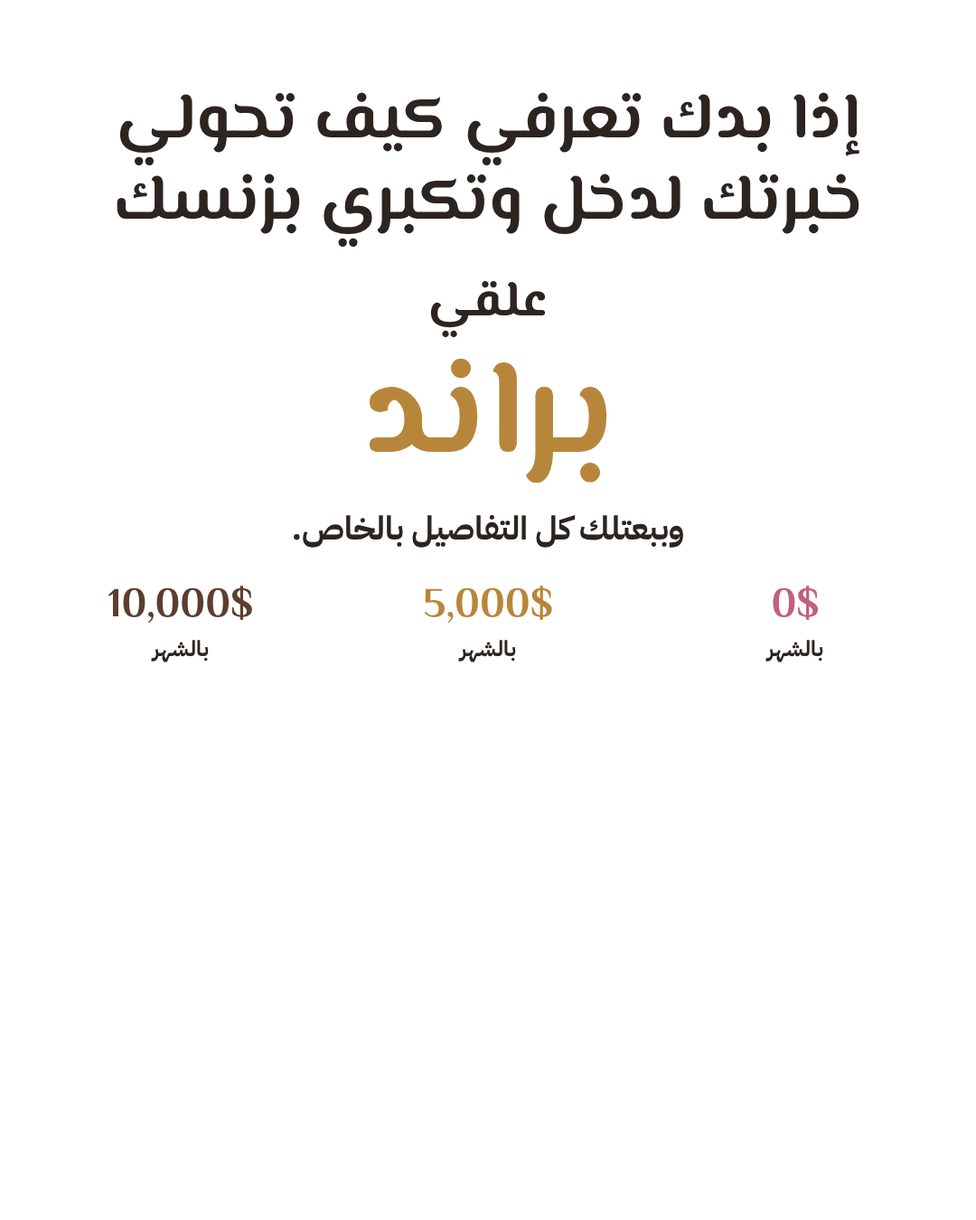
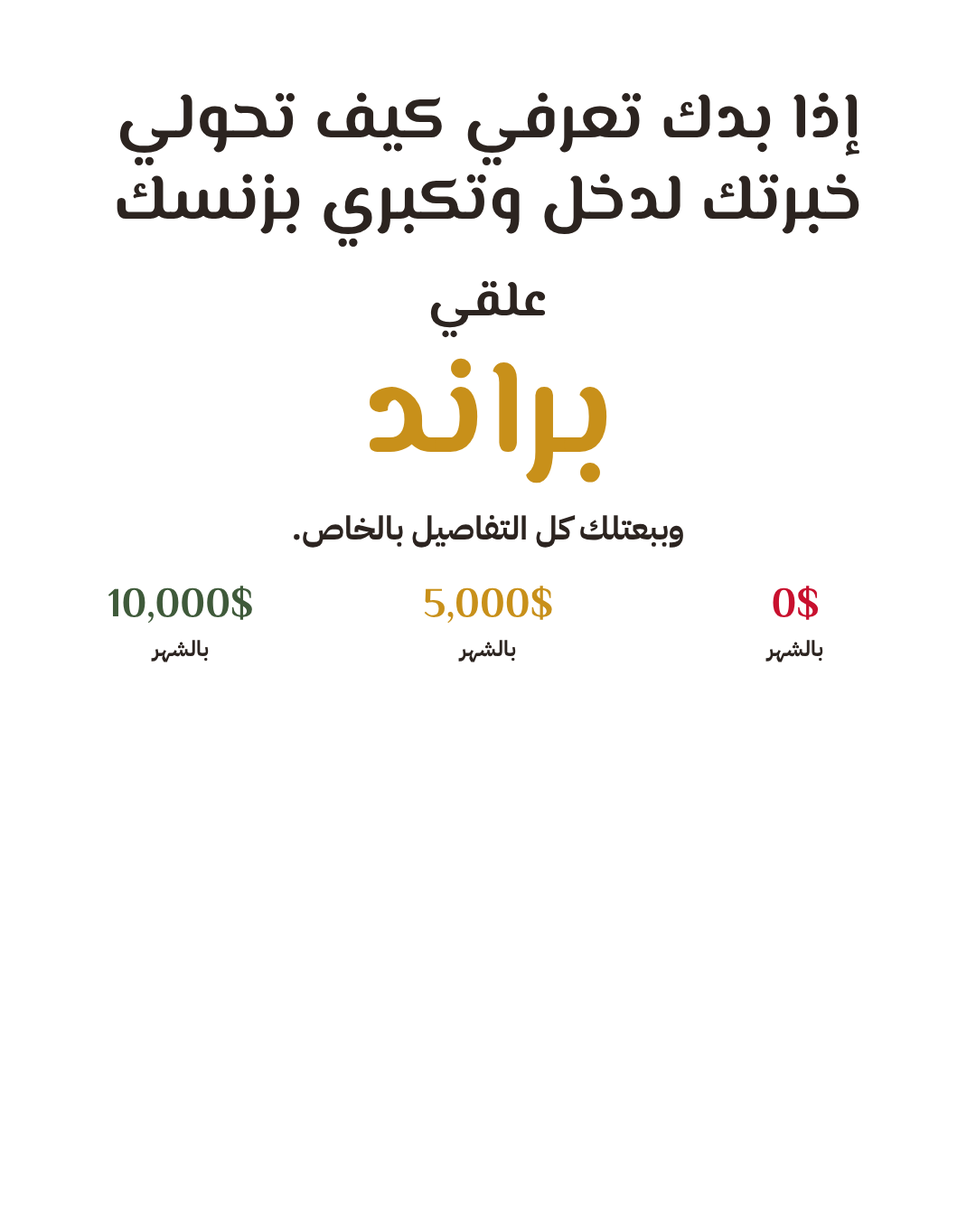
Carousel 02: place final character images, match tier colors to outfits
Claude-Session: https://claude.ai/code/session_01Q3F4hydPDiJyjfKYRyCC3U

diff --git a/carousels/02-0-5k-10k/empty/carousel.html b/carousels/02-0-5k-10k/empty/carousel.html
@@ -18,7 +18,7 @@ h1.big{font-size:100px}
 .cover .ppl{height:620px}
 .foot{position:absolute;bottom:0;left:0;right:0;background:#fff;text-align:center;font-weight:700;font-size:36px;padding:22px 0 30px}
 .cover .ppl{margin-bottom:96px}
-.cta1{font-size:72px}.cta2{font-family:M;font-size:56px;margin-top:22px}.kw{font-family:M;font-size:150px;color:#B8863B;line-height:1.15}
+.cta1{font-size:72px}.cta2{font-family:M;font-size:56px;margin-top:22px}.kw{font-family:M;font-size:150px;color:#C8901A;line-height:1.15}
 .cta3{font-weight:700;font-size:36px;margin-top:6px}.sm{margin-top:34px}.sm .amt{font-size:46px}.sm .pm{font-size:24px}
 .cta .ppl{height:470px}
-.p img,.p b{display:none!important}</style></head><body><section class="slide cover"><h1 class="big">الفرق كله هون…</h1><div class="cols heads"><div class="col"><div class="amt" style="color:#C0607A">0$</div><div class="pm">بالشهر</div><i style=background:#C0607A></i></div><div class="col"><div class="amt" style="color:#B8863B">5,000$</div><div class="pm">بالشهر</div><i style=background:#B8863B></i></div><div class="col"><div class="amt" style="color:#5C3D2E">10,000$</div><div class="pm">بالشهر</div><i style=background:#5C3D2E></i></div></div><div class="cols arrows"><svg viewBox="0 0 120 110"><path d="M110 18 C70 2 25 15 22 85" fill="none" stroke="#C0607A" stroke-width="7" stroke-linecap="round"/><path d="M6 66 L22 92 L40 68" fill="none" stroke="#C0607A" stroke-width="7" stroke-linecap="round" stroke-linejoin="round"/></svg><svg viewBox="0 0 120 110"><path d="M110 18 C70 2 25 15 22 85" fill="none" stroke="#B8863B" stroke-width="7" stroke-linecap="round"/><path d="M6 66 L22 92 L40 68" fill="none" stroke="#B8863B" stroke-width="7" stroke-linecap="round" stroke-linejoin="round"/></svg><svg viewBox="0 0 120 110"><path d="M110 18 C70 2 25 15 22 85" fill="none" stroke="#5C3D2E" stroke-width="7" stroke-linecap="round"/><path d="M6 66 L22 92 L40 68" fill="none" stroke="#5C3D2E" stroke-width="7" stroke-linecap="round" stroke-linejoin="round"/></svg></div><div class="cols ppl"><div class="p"><b style="background:#F4DDE3"></b><img src="photos/tier0.png"></div><div class="p"><b style="background:#F2E4CD"></b><img src="photos/tier5k.png"></div><div class="p"><b style="background:#E8DCD4"></b><img class="big10" src="photos/tier10k.png"></div></div><p class="foot">اسحبي لتشوفي كيف بتفكر كل وحدة ←</p></section><section class="slide row"><h1>العرض</h1><div class="cols heads"><div class="col"><div class="amt" style="color:#C0607A">0$</div><div class="pm">بالشهر</div><i style=background:#C0607A></i></div><div class="col"><div class="amt" style="color:#B8863B">5,000$</div><div class="pm">بالشهر</div><i style=background:#B8863B></i></div><div class="col"><div class="amt" style="color:#5C3D2E">10,000$</div><div class="pm">بالشهر</div><i style=background:#5C3D2E></i></div></div><div class="cols q"><p>بقدم كل شي ببلاش، وبستحي أحكي عن السعر.</p><p>عندي عرض واحد واضح لمشكلة وحدة.</p><p>عندي برنامج بنتيجة واضحة وسعر ما بعتذر عنه.</p></div><div class="cols ppl"><div class="p"><b style="background:#F4DDE3"></b><img src="photos/tier0.png"></div><div class="p"><b style="background:#F2E4CD"></b><img src="photos/tier5k.png"></div><div class="p"><b style="background:#E8DCD4"></b><img class="big10" src="photos/tier10k.png"></div></div></section><section class="slide row"><h1>المحتوى</h1><div class="cols heads"><div class="col"><div class="amt" style="color:#C0607A">0$</div><div class="pm">بالشهر</div><i style=background:#C0607A></i></div><div class="col"><div class="amt" style="color:#B8863B">5,000$</div><div class="pm">بالشهر</div><i style=background:#B8863B></i></div><div class="col"><div class="amt" style="color:#5C3D2E">10,000$</div><div class="pm">بالشهر</div><i style=background:#5C3D2E></i></div></div><div class="cols q"><p>بنشر شو ما خطر عبالي، بلا خطة.</p><p>بنشر نصايح بمجالي كل يوم.</p><p>كل منشور إلو هدف: متابعة، ثقة، أو بيع.</p></div><div class="cols ppl"><div class="p"><b style="background:#F4DDE3"></b><img src="photos/tier0.png"></div><div class="p"><b style="background:#F2E4CD"></b><img src="photos/tier5k.png"></div><div class="p"><b style="background:#E8DCD4"></b><img class="big10" src="photos/tier10k.png"></div></div></section><section class="slide row"><h1>الستوري</h1><div class="cols heads"><div class="col"><div class="amt" style="color:#C0607A">0$</div><div class="pm">بالشهر</div><i style=background:#C0607A></i></div><div class="col"><div class="amt" style="color:#B8863B">5,000$</div><div class="pm">بالشهر</div><i style=background:#B8863B></i></div><div class="col"><div class="amt" style="color:#5C3D2E">10,000$</div><div class="pm">بالشهر</div><i style=background:#5C3D2E></i></div></div><div class="cols q"><p>بنزل يومياتي وبس.</p><p>بشارك نتايج عميلاتي وبجاوب على الأسئلة.</p><p>نتايج، أسئلة واجوبة، ودعوة للشراء مرتين بالأسبوع على الأقل.</p></div><div class="cols ppl"><div class="p"><b style="background:#F4DDE3"></b><img src="photos/tier0.png"></div><div class="p"><b style="background:#F2E4CD"></b><img src="photos/tier5k.png"></div><div class="p"><b style="background:#E8DCD4"></b><img class="big10" src="photos/tier10k.png"></div></div></section><section class="slide row"><h1>الرسائل بالخاص</h1><div class="cols heads"><div class="col"><div class="amt" style="color:#C0607A">0$</div><div class="pm">بالشهر</div><i style=background:#C0607A></i></div><div class="col"><div class="amt" style="color:#B8863B">5,000$</div><div class="pm">بالشهر</div><i style=background:#B8863B></i></div><div class="col"><div class="amt" style="color:#5C3D2E">10,000$</div><div class="pm">بالشهر</div><i style=background:#5C3D2E></i></div></div><div class="cols q"><p>بستنى الناس يسالوني عن السعر.</p><p>برد على كل رسالة بسرعة.</p><p>كلمة بالتعليقات بتفتح محادثة، وكل محادثة إلها خطوات لحد البيع.</p></div><div class="cols ppl"><div class="p"><b style="background:#F4DDE3"></b><img src="photos/tier0.png"></div><div class="p"><b style="background:#F2E4CD"></b><img src="photos/tier5k.png"></div><div class="p"><b style="background:#E8DCD4"></b><img class="big10" src="photos/tier10k.png"></div></div></section><section class="slide cta"><h1 class="cta1">إذا بدك تعرفي كيف تحولي<br>خبرتك لدخل وتكبري بزنسك</h1><p class="cta2">علقي</p><p class="kw">براند</p><p class="cta3">وببعتلك كل التفاصيل بالخاص.</p><div class="cols heads sm"><div class="col"><div class="amt" style="color:#C0607A">0$</div><div class="pm">بالشهر</div></div><div class="col"><div class="amt" style="color:#B8863B">5,000$</div><div class="pm">بالشهر</div></div><div class="col"><div class="amt" style="color:#5C3D2E">10,000$</div><div class="pm">بالشهر</div></div></div><div class="cols ppl"><div class="p"><b style="background:#F4DDE3"></b><img src="photos/tier0.png"></div><div class="p"><b style="background:#F2E4CD"></b><img src="photos/tier5k.png"></div><div class="p"><b style="background:#E8DCD4"></b><img class="big10" src="photos/tier10k.png"></div></div></section></body></html>
+.p img,.p b{display:none!important}</style></head><body><section class="slide cover"><h1 class="big">الفرق كله هون…</h1><div class="cols heads"><div class="col"><div class="amt" style="color:#C8102E">0$</div><div class="pm">بالشهر</div><i style=background:#C8102E></i></div><div class="col"><div class="amt" style="color:#C8901A">5,000$</div><div class="pm">بالشهر</div><i style=background:#C8901A></i></div><div class="col"><div class="amt" style="color:#3F5A3A">10,000$</div><div class="pm">بالشهر</div><i style=background:#3F5A3A></i></div></div><div class="cols arrows"><svg viewBox="0 0 120 110"><path d="M110 18 C70 2 25 15 22 85" fill="none" stroke="#C8102E" stroke-width="7" stroke-linecap="round"/><path d="M6 66 L22 92 L40 68" fill="none" stroke="#C8102E" stroke-width="7" stroke-linecap="round" stroke-linejoin="round"/></svg><svg viewBox="0 0 120 110"><path d="M110 18 C70 2 25 15 22 85" fill="none" stroke="#C8901A" stroke-width="7" stroke-linecap="round"/><path d="M6 66 L22 92 L40 68" fill="none" stroke="#C8901A" stroke-width="7" stroke-linecap="round" stroke-linejoin="round"/></svg><svg viewBox="0 0 120 110"><path d="M110 18 C70 2 25 15 22 85" fill="none" stroke="#3F5A3A" stroke-width="7" stroke-linecap="round"/><path d="M6 66 L22 92 L40 68" fill="none" stroke="#3F5A3A" stroke-width="7" stroke-linecap="round" stroke-linejoin="round"/></svg></div><div class="cols ppl"><div class="p"><b style="background:#F4DDE3"></b><img src="photos/tier0.png"></div><div class="p"><b style="background:#F2E4CD"></b><img src="photos/tier5k.png"></div><div class="p"><b style="background:#E8DCD4"></b><img class="big10" src="photos/tier10k.png"></div></div><p class="foot">اسحبي لتشوفي كيف بتفكر كل وحدة ←</p></section><section class="slide row"><h1>العرض</h1><div class="cols heads"><div class="col"><div class="amt" style="color:#C8102E">0$</div><div class="pm">بالشهر</div><i style=background:#C8102E></i></div><div class="col"><div class="amt" style="color:#C8901A">5,000$</div><div class="pm">بالشهر</div><i style=background:#C8901A></i></div><div class="col"><div class="amt" style="color:#3F5A3A">10,000$</div><div class="pm">بالشهر</div><i style=background:#3F5A3A></i></div></div><div class="cols q"><p>بقدم كل شي ببلاش، وبستحي أحكي عن السعر.</p><p>عندي عرض واحد واضح لمشكلة وحدة.</p><p>عندي برنامج بنتيجة واضحة وسعر ما بعتذر عنه.</p></div><div class="cols ppl"><div class="p"><b style="background:#F4DDE3"></b><img src="photos/tier0.png"></div><div class="p"><b style="background:#F2E4CD"></b><img src="photos/tier5k.png"></div><div class="p"><b style="background:#E8DCD4"></b><img class="big10" src="photos/tier10k.png"></div></div></section><section class="slide row"><h1>المحتوى</h1><div class="cols heads"><div class="col"><div class="amt" style="color:#C8102E">0$</div><div class="pm">بالشهر</div><i style=background:#C8102E></i></div><div class="col"><div class="amt" style="color:#C8901A">5,000$</div><div class="pm">بالشهر</div><i style=background:#C8901A></i></div><div class="col"><div class="amt" style="color:#3F5A3A">10,000$</div><div class="pm">بالشهر</div><i style=background:#3F5A3A></i></div></div><div class="cols q"><p>بنشر شو ما خطر عبالي، بلا خطة.</p><p>بنشر نصايح بمجالي كل يوم.</p><p>كل منشور إلو هدف: متابعة، ثقة، أو بيع.</p></div><div class="cols ppl"><div class="p"><b style="background:#F4DDE3"></b><img src="photos/tier0.png"></div><div class="p"><b style="background:#F2E4CD"></b><img src="photos/tier5k.png"></div><div class="p"><b style="background:#E8DCD4"></b><img class="big10" src="photos/tier10k.png"></div></div></section><section class="slide row"><h1>الستوري</h1><div class="cols heads"><div class="col"><div class="amt" style="color:#C8102E">0$</div><div class="pm">بالشهر</div><i style=background:#C8102E></i></div><div class="col"><div class="amt" style="color:#C8901A">5,000$</div><div class="pm">بالشهر</div><i style=background:#C8901A></i></div><div class="col"><div class="amt" style="color:#3F5A3A">10,000$</div><div class="pm">بالشهر</div><i style=background:#3F5A3A></i></div></div><div class="cols q"><p>بنزل يومياتي وبس.</p><p>بشارك نتايج عميلاتي وبجاوب على الأسئلة.</p><p>نتايج، أسئلة واجوبة، ودعوة للشراء مرتين بالأسبوع على الأقل.</p></div><div class="cols ppl"><div class="p"><b style="background:#F4DDE3"></b><img src="photos/tier0.png"></div><div class="p"><b style="background:#F2E4CD"></b><img src="photos/tier5k.png"></div><div class="p"><b style="background:#E8DCD4"></b><img class="big10" src="photos/tier10k.png"></div></div></section><section class="slide row"><h1>الرسائل بالخاص</h1><div class="cols heads"><div class="col"><div class="amt" style="color:#C8102E">0$</div><div class="pm">بالشهر</div><i style=background:#C8102E></i></div><div class="col"><div class="amt" style="color:#C8901A">5,000$</div><div class="pm">بالشهر</div><i style=background:#C8901A></i></div><div class="col"><div class="amt" style="color:#3F5A3A">10,000$</div><div class="pm">بالشهر</div><i style=background:#3F5A3A></i></div></div><div class="cols q"><p>بستنى الناس يسالوني عن السعر.</p><p>برد على كل رسالة بسرعة.</p><p>كلمة بالتعليقات بتفتح محادثة، وكل محادثة إلها خطوات لحد البيع.</p></div><div class="cols ppl"><div class="p"><b style="background:#F4DDE3"></b><img src="photos/tier0.png"></div><div class="p"><b style="background:#F2E4CD"></b><img src="photos/tier5k.png"></div><div class="p"><b style="background:#E8DCD4"></b><img class="big10" src="photos/tier10k.png"></div></div></section><section class="slide cta"><h1 class="cta1">إذا بدك تعرفي كيف تحولي<br>خبرتك لدخل وتكبري بزنسك</h1><p class="cta2">علقي</p><p class="kw">براند</p><p class="cta3">وببعتلك كل التفاصيل بالخاص.</p><div class="cols heads sm"><div class="col"><div class="amt" style="color:#C8102E">0$</div><div class="pm">بالشهر</div></div><div class="col"><div class="amt" style="color:#C8901A">5,000$</div><div class="pm">بالشهر</div></div><div class="col"><div class="amt" style="color:#3F5A3A">10,000$</div><div class="pm">بالشهر</div></div></div><div class="cols ppl"><div class="p"><b style="background:#F4DDE3"></b><img src="photos/tier0.png"></div><div class="p"><b style="background:#F2E4CD"></b><img src="photos/tier5k.png"></div><div class="p"><b style="background:#E8DCD4"></b><img class="big10" src="photos/tier10k.png"></div></div></section></body></html>

diff --git a/carousels/02-0-5k-10k/carousel.html b/carousels/02-0-5k-10k/carousel.html
@@ -18,7 +18,7 @@ h1.big{font-size:100px}
 .cover .ppl{height:620px}
 .foot{position:absolute;bottom:0;left:0;right:0;background:#fff;text-align:center;font-weight:700;font-size:36px;padding:22px 0 30px}
 .cover .ppl{margin-bottom:96px}
-.cta1{font-size:72px}.cta2{font-family:M;font-size:56px;margin-top:22px}.kw{font-family:M;font-size:150px;color:#B8863B;line-height:1.15}
+.cta1{font-size:72px}.cta2{font-family:M;font-size:56px;margin-top:22px}.kw{font-family:M;font-size:150px;color:#C8901A;line-height:1.15}
 .cta3{font-weight:700;font-size:36px;margin-top:6px}.sm{margin-top:34px}.sm .amt{font-size:46px}.sm .pm{font-size:24px}
 .cta .ppl{height:470px}
-</style></head><body><section class="slide cover"><h1 class="big">الفرق كله هون…</h1><div class="cols heads"><div class="col"><div class="amt" style="color:#C0607A">0$</div><div class="pm">بالشهر</div><i style=background:#C0607A></i></div><div class="col"><div class="amt" style="color:#B8863B">5,000$</div><div class="pm">بالشهر</div><i style=background:#B8863B></i></div><div class="col"><div class="amt" style="color:#5C3D2E">10,000$</div><div class="pm">بالشهر</div><i style=background:#5C3D2E></i></div></div><div class="cols arrows"><svg viewBox="0 0 120 110"><path d="M110 18 C70 2 25 15 22 85" fill="none" stroke="#C0607A" stroke-width="7" stroke-linecap="round"/><path d="M6 66 L22 92 L40 68" fill="none" stroke="#C0607A" stroke-width="7" stroke-linecap="round" stroke-linejoin="round"/></svg><svg viewBox="0 0 120 110"><path d="M110 18 C70 2 25 15 22 85" fill="none" stroke="#B8863B" stroke-width="7" stroke-linecap="round"/><path d="M6 66 L22 92 L40 68" fill="none" stroke="#B8863B" stroke-width="7" stroke-linecap="round" stroke-linejoin="round"/></svg><svg viewBox="0 0 120 110"><path d="M110 18 C70 2 25 15 22 85" fill="none" stroke="#5C3D2E" stroke-width="7" stroke-linecap="round"/><path d="M6 66 L22 92 L40 68" fill="none" stroke="#5C3D2E" stroke-width="7" stroke-linecap="round" stroke-linejoin="round"/></svg></div><div class="cols ppl"><div class="p"><b style="background:#F4DDE3"></b><img src="photos/tier0.png"></div><div class="p"><b style="background:#F2E4CD"></b><img src="photos/tier5k.png"></div><div class="p"><b style="background:#E8DCD4"></b><img class="big10" src="photos/tier10k.png"></div></div><p class="foot">اسحبي لتشوفي كيف بتفكر كل وحدة ←</p></section><section class="slide row"><h1>العرض</h1><div class="cols heads"><div class="col"><div class="amt" style="color:#C0607A">0$</div><div class="pm">بالشهر</div><i style=background:#C0607A></i></div><div class="col"><div class="amt" style="color:#B8863B">5,000$</div><div class="pm">بالشهر</div><i style=background:#B8863B></i></div><div class="col"><div class="amt" style="color:#5C3D2E">10,000$</div><div class="pm">بالشهر</div><i style=background:#5C3D2E></i></div></div><div class="cols q"><p>بقدم كل شي ببلاش، وبستحي أحكي عن السعر.</p><p>عندي عرض واحد واضح لمشكلة وحدة.</p><p>عندي برنامج بنتيجة واضحة وسعر ما بعتذر عنه.</p></div><div class="cols ppl"><div class="p"><b style="background:#F4DDE3"></b><img src="photos/tier0.png"></div><div class="p"><b style="background:#F2E4CD"></b><img src="photos/tier5k.png"></div><div class="p"><b style="background:#E8DCD4"></b><img class="big10" src="photos/tier10k.png"></div></div></section><section class="slide row"><h1>المحتوى</h1><div class="cols heads"><div class="col"><div class="amt" style="color:#C0607A">0$</div><div class="pm">بالشهر</div><i style=background:#C0607A></i></div><div class="col"><div class="amt" style="color:#B8863B">5,000$</div><div class="pm">بالشهر</div><i style=background:#B8863B></i></div><div class="col"><div class="amt" style="color:#5C3D2E">10,000$</div><div class="pm">بالشهر</div><i style=background:#5C3D2E></i></div></div><div class="cols q"><p>بنشر شو ما خطر عبالي، بلا خطة.</p><p>بنشر نصايح بمجالي كل يوم.</p><p>كل منشور إلو هدف: متابعة، ثقة، أو بيع.</p></div><div class="cols ppl"><div class="p"><b style="background:#F4DDE3"></b><img src="photos/tier0.png"></div><div class="p"><b style="background:#F2E4CD"></b><img src="photos/tier5k.png"></div><div class="p"><b style="background:#E8DCD4"></b><img class="big10" src="photos/tier10k.png"></div></div></section><section class="slide row"><h1>الستوري</h1><div class="cols heads"><div class="col"><div class="amt" style="color:#C0607A">0$</div><div class="pm">بالشهر</div><i style=background:#C0607A></i></div><div class="col"><div class="amt" style="color:#B8863B">5,000$</div><div class="pm">بالشهر</div><i style=background:#B8863B></i></div><div class="col"><div class="amt" style="color:#5C3D2E">10,000$</div><div class="pm">بالشهر</div><i style=background:#5C3D2E></i></div></div><div class="cols q"><p>بنزل يومياتي وبس.</p><p>بشارك نتايج عميلاتي وبجاوب على الأسئلة.</p><p>نتايج، أسئلة واجوبة، ودعوة للشراء مرتين بالأسبوع على الأقل.</p></div><div class="cols ppl"><div class="p"><b style="background:#F4DDE3"></b><img src="photos/tier0.png"></div><div class="p"><b style="background:#F2E4CD"></b><img src="photos/tier5k.png"></div><div class="p"><b style="background:#E8DCD4"></b><img class="big10" src="photos/tier10k.png"></div></div></section><section class="slide row"><h1>الرسائل بالخاص</h1><div class="cols heads"><div class="col"><div class="amt" style="color:#C0607A">0$</div><div class="pm">بالشهر</div><i style=background:#C0607A></i></div><div class="col"><div class="amt" style="color:#B8863B">5,000$</div><div class="pm">بالشهر</div><i style=background:#B8863B></i></div><div class="col"><div class="amt" style="color:#5C3D2E">10,000$</div><div class="pm">بالشهر</div><i style=background:#5C3D2E></i></div></div><div class="cols q"><p>بستنى الناس يسالوني عن السعر.</p><p>برد على كل رسالة بسرعة.</p><p>كلمة بالتعليقات بتفتح محادثة، وكل محادثة إلها خطوات لحد البيع.</p></div><div class="cols ppl"><div class="p"><b style="background:#F4DDE3"></b><img src="photos/tier0.png"></div><div class="p"><b style="background:#F2E4CD"></b><img src="photos/tier5k.png"></div><div class="p"><b style="background:#E8DCD4"></b><img class="big10" src="photos/tier10k.png"></div></div></section><section class="slide cta"><h1 class="cta1">إذا بدك تعرفي كيف تحولي<br>خبرتك لدخل وتكبري بزنسك</h1><p class="cta2">علقي</p><p class="kw">براند</p><p class="cta3">وببعتلك كل التفاصيل بالخاص.</p><div class="cols heads sm"><div class="col"><div class="amt" style="color:#C0607A">0$</div><div class="pm">بالشهر</div></div><div class="col"><div class="amt" style="color:#B8863B">5,000$</div><div class="pm">بالشهر</div></div><div class="col"><div class="amt" style="color:#5C3D2E">10,000$</div><div class="pm">بالشهر</div></div></div><div class="cols ppl"><div class="p"><b style="background:#F4DDE3"></b><img src="photos/tier0.png"></div><div class="p"><b style="background:#F2E4CD"></b><img src="photos/tier5k.png"></div><div class="p"><b style="background:#E8DCD4"></b><img class="big10" src="photos/tier10k.png"></div></div></section></body></html>
+.p b{display:none}.p img{height:100%;width:auto;max-width:100%;max-height:100%;object-fit:contain}</style></head><body><section class="slide cover"><h1 class="big">الفرق كله هون…</h1><div class="cols heads"><div class="col"><div class="amt" style="color:#C8102E">0$</div><div class="pm">بالشهر</div><i style=background:#C8102E></i></div><div class="col"><div class="amt" style="color:#C8901A">5,000$</div><div class="pm">بالشهر</div><i style=background:#C8901A></i></div><div class="col"><div class="amt" style="color:#3F5A3A">10,000$</div><div class="pm">بالشهر</div><i style=background:#3F5A3A></i></div></div><div class="cols arrows"><svg viewBox="0 0 120 110"><path d="M110 18 C70 2 25 15 22 85" fill="none" stroke="#C8102E" stroke-width="7" stroke-linecap="round"/><path d="M6 66 L22 92 L40 68" fill="none" stroke="#C8102E" stroke-width="7" stroke-linecap="round" stroke-linejoin="round"/></svg><svg viewBox="0 0 120 110"><path d="M110 18 C70 2 25 15 22 85" fill="none" stroke="#C8901A" stroke-width="7" stroke-linecap="round"/><path d="M6 66 L22 92 L40 68" fill="none" stroke="#C8901A" stroke-width="7" stroke-linecap="round" stroke-linejoin="round"/></svg><svg viewBox="0 0 120 110"><path d="M110 18 C70 2 25 15 22 85" fill="none" stroke="#3F5A3A" stroke-width="7" stroke-linecap="round"/><path d="M6 66 L22 92 L40 68" fill="none" stroke="#3F5A3A" stroke-width="7" stroke-linecap="round" stroke-linejoin="round"/></svg></div><div class="cols ppl"><div class="p"><b style="background:#F4DDE3"></b><img src="photos/fig_0.png"></div><div class="p"><b style="background:#F2E4CD"></b><img src="photos/fig_5k.png"></div><div class="p"><b style="background:#E8DCD4"></b><img src="photos/fig_10k.png"></div></div><p class="foot">اسحبي لتشوفي كيف بتفكر كل وحدة ←</p></section><section class="slide row"><h1>العرض</h1><div class="cols heads"><div class="col"><div class="amt" style="color:#C8102E">0$</div><div class="pm">بالشهر</div><i style=background:#C8102E></i></div><div class="col"><div class="amt" style="color:#C8901A">5,000$</div><div class="pm">بالشهر</div><i style=background:#C8901A></i></div><div class="col"><div class="amt" style="color:#3F5A3A">10,000$</div><div class="pm">بالشهر</div><i style=background:#3F5A3A></i></div></div><div class="cols q"><p>بقدم كل شي ببلاش، وبستحي أحكي عن السعر.</p><p>عندي عرض واحد واضح لمشكلة وحدة.</p><p>عندي برنامج بنتيجة واضحة وسعر ما بعتذر عنه.</p></div><div class="cols ppl"><div class="p"><b style="background:#F4DDE3"></b><img src="photos/fig_0.png"></div><div class="p"><b style="background:#F2E4CD"></b><img src="photos/fig_5k.png"></div><div class="p"><b style="background:#E8DCD4"></b><img src="photos/fig_10k.png"></div></div></section><section class="slide row"><h1>المحتوى</h1><div class="cols heads"><div class="col"><div class="amt" style="color:#C8102E">0$</div><div class="pm">بالشهر</div><i style=background:#C8102E></i></div><div class="col"><div class="amt" style="color:#C8901A">5,000$</div><div class="pm">بالشهر</div><i style=background:#C8901A></i></div><div class="col"><div class="amt" style="color:#3F5A3A">10,000$</div><div class="pm">بالشهر</div><i style=background:#3F5A3A></i></div></div><div class="cols q"><p>بنشر شو ما خطر عبالي، بلا خطة.</p><p>بنشر نصايح بمجالي كل يوم.</p><p>كل منشور إلو هدف: متابعة، ثقة، أو بيع.</p></div><div class="cols ppl"><div class="p"><b style="background:#F4DDE3"></b><img src="photos/fig_0.png"></div><div class="p"><b style="background:#F2E4CD"></b><img src="photos/fig_5k.png"></div><div class="p"><b style="background:#E8DCD4"></b><img src="photos/fig_10k.png"></div></div></section><section class="slide row"><h1>الستوري</h1><div class="cols heads"><div class="col"><div class="amt" style="color:#C8102E">0$</div><div class="pm">بالشهر</div><i style=background:#C8102E></i></div><div class="col"><div class="amt" style="color:#C8901A">5,000$</div><div class="pm">بالشهر</div><i style=background:#C8901A></i></div><div class="col"><div class="amt" style="color:#3F5A3A">10,000$</div><div class="pm">بالشهر</div><i style=background:#3F5A3A></i></div></div><div class="cols q"><p>بنزل يومياتي وبس.</p><p>بشارك نتايج عميلاتي وبجاوب على الأسئلة.</p><p>نتايج، أسئلة واجوبة، ودعوة للشراء مرتين بالأسبوع على الأقل.</p></div><div class="cols ppl"><div class="p"><b style="background:#F4DDE3"></b><img src="photos/fig_0.png"></div><div class="p"><b style="background:#F2E4CD"></b><img src="photos/fig_5k.png"></div><div class="p"><b style="background:#E8DCD4"></b><img src="photos/fig_10k.png"></div></div></section><section class="slide row"><h1>الرسائل بالخاص</h1><div class="cols heads"><div class="col"><div class="amt" style="color:#C8102E">0$</div><div class="pm">بالشهر</div><i style=background:#C8102E></i></div><div class="col"><div class="amt" style="color:#C8901A">5,000$</div><div class="pm">بالشهر</div><i style=background:#C8901A></i></div><div class="col"><div class="amt" style="color:#3F5A3A">10,000$</div><div class="pm">بالشهر</div><i style=background:#3F5A3A></i></div></div><div class="cols q"><p>بستنى الناس يسالوني عن السعر.</p><p>برد على كل رسالة بسرعة.</p><p>كلمة بالتعليقات بتفتح محادثة، وكل محادثة إلها خطوات لحد البيع.</p></div><div class="cols ppl"><div class="p"><b style="background:#F4DDE3"></b><img src="photos/fig_0.png"></div><div class="p"><b style="background:#F2E4CD"></b><img src="photos/fig_5k.png"></div><div class="p"><b style="background:#E8DCD4"></b><img src="photos/fig_10k.png"></div></div></section><section class="slide cta"><h1 class="cta1">إذا بدك تعرفي كيف تحولي<br>خبرتك لدخل وتكبري بزنسك</h1><p class="cta2">علقي</p><p class="kw">براند</p><p class="cta3">وببعتلك كل التفاصيل بالخاص.</p><div class="cols heads sm"><div class="col"><div class="amt" style="color:#C8102E">0$</div><div class="pm">بالشهر</div></div><div class="col"><div class="amt" style="color:#C8901A">5,000$</div><div class="pm">بالشهر</div></div><div class="col"><div class="amt" style="color:#3F5A3A">10,000$</div><div class="pm">بالشهر</div></div></div><div class="cols ppl"><div class="p"><b style="background:#F4DDE3"></b><img src="photos/fig_0.png"></div><div class="p"><b style="background:#F2E4CD"></b><img src="photos/fig_5k.png"></div><div class="p"><b style="background:#E8DCD4"></b><img src="photos/fig_10k.png"></div></div></section></body></html>
